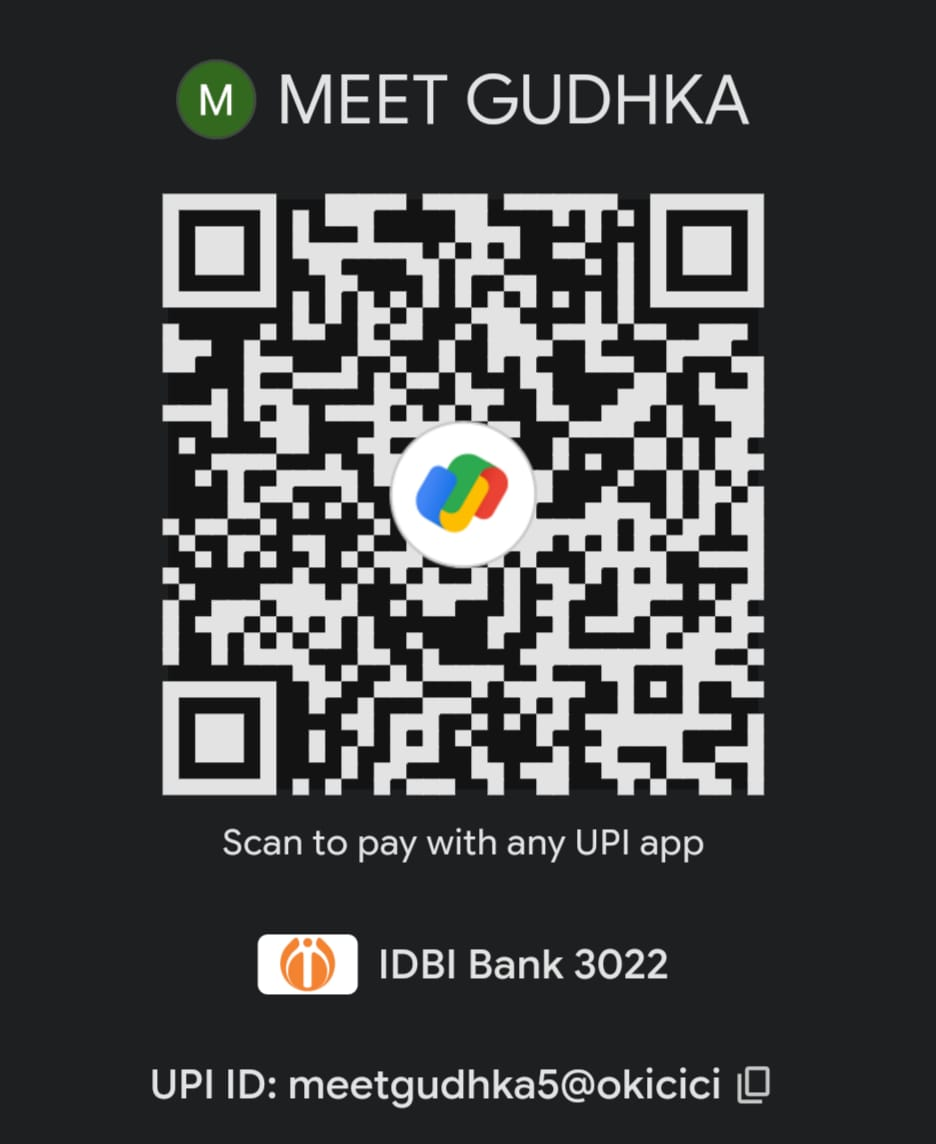
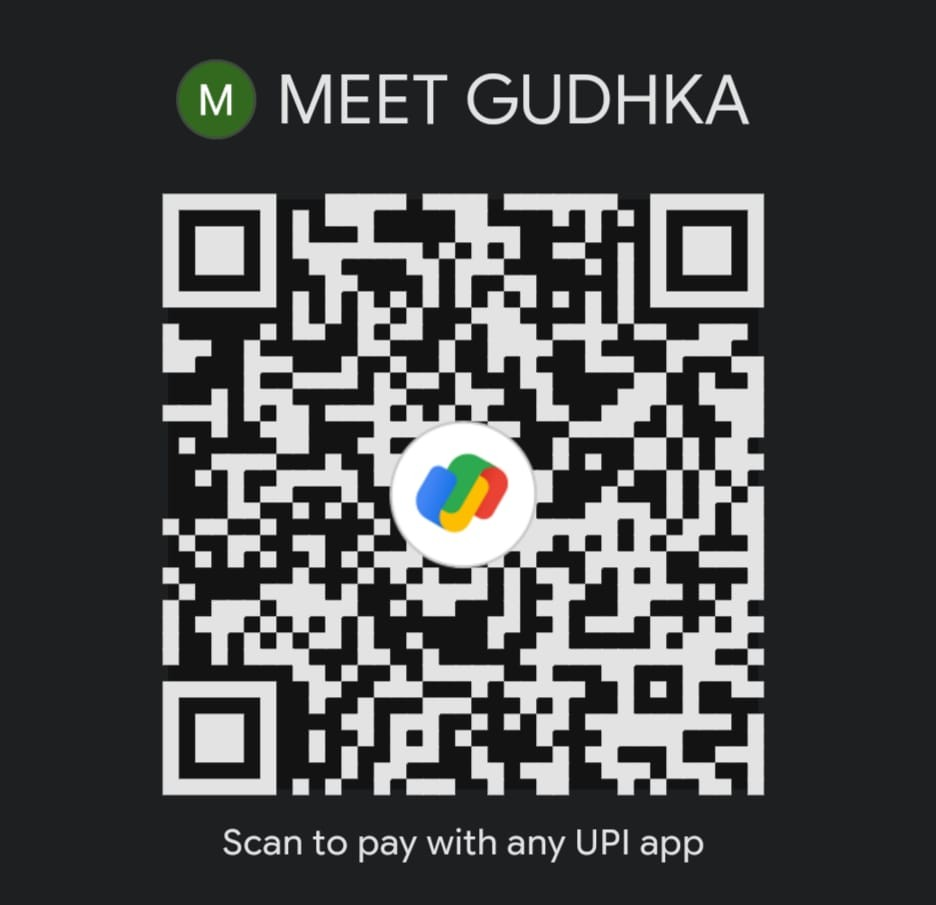
Registration 2nd Updates

diff --git a/tedx/tedxdemo-main/src/RegisterPage.jsx b/tedx/tedxdemo-main/src/RegisterPage.jsx
@@ -22,13 +22,17 @@ const TICKET_OPTIONS = [
   { value: "premium", label: "Premium", amount: 200 },
 ];
 
+const UPI_ID = "meetgudhka5@okicici";
+
 const RegisterPage = () => {
   const [formData, setFormData] = useState(() => {
     const saved = localStorage.getItem('registrationProgress');
     if (saved) {
       try {
         return { ...DEFAULT_FORM_DATA, ...JSON.parse(saved) };
-      } catch (e) {}
+      } catch {
+        localStorage.removeItem('registrationProgress');
+      }
     }
     return DEFAULT_FORM_DATA;
   });
@@ -40,6 +44,8 @@ const RegisterPage = () => {
   const [screenshotPreview, setScreenshotPreview] = useState(null);
   const [isDragging, setIsDragging] = useState(false);
   const [showSample, setShowSample] = useState(false);
+  const [hasExpandedPaymentSection, setHasExpandedPaymentSection] = useState(false);
+  const [isUpiCopied, setIsUpiCopied] = useState(false);
   const fileInputRef = React.useRef(null);
   
   const isPersonalInfoFilled = () => {
@@ -48,6 +54,16 @@ const RegisterPage = () => {
         if (!formData.branch || !formData.sapId || !formData.rollNumber) return false;
     } else if (formData.collegeType === "other") {
         if (!formData.collegeName) return false;
+    }
+    return true;
+  };
+
+  const isPersonalInfoFilledFor = (data) => {
+    if (!data.fullName || !data.email || !data.contact || !data.collegeType) return false;
+    if (data.collegeType === "djsce") {
+      if (!data.branch || !data.sapId || !data.rollNumber) return false;
+    } else if (data.collegeType === "other") {
+      if (!data.collegeName) return false;
     }
     return true;
   };
@@ -109,7 +125,7 @@ const RegisterPage = () => {
     }
 
     try {
-      const response = await fetch('https://script.google.com/macros/s/AKfycbyd5VmAy0HYe05MvR62mccNAWf7_J-iwSabCxAEhmScdnLxc6heKHEWg9bDC4xtbdOIdw/exec', {
+      await fetch('https://script.google.com/macros/s/AKfycbyd5VmAy0HYe05MvR62mccNAWf7_J-iwSabCxAEhmScdnLxc6heKHEWg9bDC4xtbdOIdw/exec', {
         method: 'POST',
         mode: 'no-cors', // Apps Script handles no-cors for simple POSTs
         headers: { 'Content-Type': 'application/json' },
@@ -122,6 +138,7 @@ const RegisterPage = () => {
       setFormData(DEFAULT_FORM_DATA);
       setScreenshotData(null);
       setScreenshotPreview(null);
+      setHasExpandedPaymentSection(false);
       if (fileInputRef.current) fileInputRef.current.value = "";
       localStorage.removeItem('registrationProgress');
     } catch (err) {
@@ -131,7 +148,13 @@ const RegisterPage = () => {
   };
 
   const handleChange = (field, value) => {
-    setFormData((prev) => ({ ...prev, [field]: value }));
+    setFormData((prev) => {
+      const next = { ...prev, [field]: value };
+      if (!hasExpandedPaymentSection && isPersonalInfoFilledFor(next)) {
+        setHasExpandedPaymentSection(true);
+      }
+      return next;
+    });
   };
 
   const handleTicketSelect = (ticketValue) => {
@@ -143,6 +166,30 @@ const RegisterPage = () => {
       amount: String(selectedTicket.amount),
     }));
   };
+
+  const copyUpiId = async () => {
+    try {
+      if (navigator.clipboard && window.isSecureContext) {
+        await navigator.clipboard.writeText(UPI_ID);
+      } else {
+        const textArea = document.createElement("textarea");
+        textArea.value = UPI_ID;
+        textArea.setAttribute("readonly", "");
+        textArea.style.position = "absolute";
+        textArea.style.left = "-9999px";
+        document.body.appendChild(textArea);
+        textArea.select();
+        document.execCommand("copy");
+        document.body.removeChild(textArea);
+      }
+      setIsUpiCopied(true);
+      setTimeout(() => setIsUpiCopied(false), 1800);
+    } catch {
+      alert("Could not copy UPI ID. Please copy it manually.");
+    }
+  };
+
+  const isPaymentSectionVisible = isPersonalInfoFilled();
 
   return (
     <div className="ted-register-container">
@@ -190,6 +237,19 @@ const RegisterPage = () => {
                 Admin Login
               </Link>
             </div>
+
+            {hasExpandedPaymentSection && (
+              <div className="terms-card scale-in">
+                <h3>Terms And Conditions</h3>
+                <ul>
+                  <li>Ticket is confirmed only after successful payment verification.</li>
+                  <li>The selected pass type must match the paid amount exactly.</li>
+                  <li>Payment screenshot must clearly show transaction ID and amount.</li>
+                  <li>Tickets are non-refundable and non-transferable once submitted.</li>
+                  <li>TEDxDJSCE may reject incomplete or incorrect registrations.</li>
+                </ul>
+              </div>
+            )}
           </div>
         </div>
 
@@ -245,7 +305,7 @@ const RegisterPage = () => {
                 { label: "Branch", type: "text", field: "branch" },
                 { label: "Roll Number", type: "text", field: "rollNumber" },
                 { label: "SAP ID", type: "text", field: "sapId" },
-              ].map((field, i) => (
+              ].map((field) => (
                 <div className="field-wrapper scale-in" key={field.field} style={{ "--index": 0 }}>
                   <input
                     type={field.type}
@@ -260,7 +320,7 @@ const RegisterPage = () => {
 
               {formData.collegeType === "other" && [
                 { label: "College Name", type: "text", field: "collegeName" },
-              ].map((field, i) => (
+              ].map((field) => (
                 <div className="field-wrapper scale-in" key={field.field} style={{ "--index": 0 }}>
                   <input
                     type={field.type}
@@ -274,7 +334,7 @@ const RegisterPage = () => {
               ))}
 
               {/* 4. Payment Section (Appears ONLY if forms filled) */}
-              {isPersonalInfoFilled() && (
+                {isPaymentSectionVisible && (
                  <div className="payment-section scale-in">
                      <div className="section-divider">
                          <span>Payment Details</span>
@@ -291,6 +351,20 @@ const RegisterPage = () => {
                           className="payment-qr-image"
                           loading="lazy"
                         />
+                        <div className="upi-copy-row">
+                          <div className="upi-copy-text-wrap">
+                            <span className="upi-copy-label">UPI ID</span>
+                            <span className="upi-copy-id">{UPI_ID}</span>
+                          </div>
+                          <button
+                            type="button"
+                            className={`upi-copy-btn ${isUpiCopied ? "copied" : ""}`}
+                            onClick={copyUpiId}
+                            aria-label="Copy UPI ID"
+                          >
+                            {isUpiCopied ? "Copied" : "Copy"}
+                          </button>
+                        </div>
                      </div>
 
                      <div className="ticket-selector" style={{ "--index": 1 }}>
@@ -326,6 +400,9 @@ const RegisterPage = () => {
                           />
                           <label>{field.label}</label>
                           <div className="underline"></div>
+                          {field.field === "senderName" && (
+                            <p className="field-note">The name of the person, or the account holder's name from whose account the money was sent.</p>
+                          )}
                         </div>
                      ))}
                      
@@ -385,6 +462,7 @@ const RegisterPage = () => {
                      </button>
                  </div>
               )}
+
             </div>
           </div>
         </div>

diff --git a/tedx/tedxdemo-main/src/RegisterPage.css b/tedx/tedxdemo-main/src/RegisterPage.css
@@ -18,7 +18,8 @@
   font-family: var(--font-main);
   overflow: hidden;
   position: relative;
-  padding: 20px;
+  /* Keep form panel below fixed navbar (h-20) */
+  padding: 70px 20px 20px;
 }
 
 .admin-access-container {
@@ -274,7 +275,7 @@
   padding: 60px;
   display: flex;
   flex-direction: column;
-  justify-content: center;
+  justify-content: flex-start;
   background: transparent;
   position: relative;
   overflow: visible;
@@ -570,6 +571,65 @@
   border: 1px solid rgba(255, 255, 255, 0.15);
 }
 
+.upi-copy-row {
+  margin-top: 14px;
+  padding: 10px 12px;
+  border-radius: 10px;
+  border: 1px solid rgba(255, 255, 255, 0.12);
+  background: rgba(255, 255, 255, 0.02);
+  display: flex;
+  align-items: center;
+  justify-content: space-between;
+  gap: 12px;
+}
+
+.upi-copy-text-wrap {
+  min-width: 0;
+  display: flex;
+  flex-direction: column;
+  gap: 2px;
+}
+
+.upi-copy-label {
+  color: rgba(255, 255, 255, 0.55);
+  font-size: 0.72rem;
+  letter-spacing: 1px;
+  text-transform: uppercase;
+}
+
+.upi-copy-id {
+  color: rgba(255, 255, 255, 0.92);
+  font-size: 0.95rem;
+  font-weight: 600;
+  overflow-wrap: anywhere;
+}
+
+.upi-copy-btn {
+  border: 1px solid rgba(255, 255, 255, 0.22);
+  background: rgba(255, 255, 255, 0.04);
+  color: rgba(255, 255, 255, 0.86);
+  border-radius: 8px;
+  padding: 7px 12px;
+  font-size: 0.78rem;
+  letter-spacing: 0.6px;
+  text-transform: uppercase;
+  cursor: pointer;
+  transition: all 0.22s ease;
+  white-space: nowrap;
+}
+
+.upi-copy-btn:hover {
+  border-color: rgba(235, 0, 40, 0.7);
+  color: #fff;
+  background: rgba(235, 0, 40, 0.18);
+}
+
+.upi-copy-btn.copied {
+  border-color: rgba(74, 222, 128, 0.6);
+  color: #b6f4cc;
+  background: rgba(74, 222, 128, 0.12);
+}
+
 .ticket-selector {
   margin-bottom: 26px;
   opacity: 0;
@@ -628,6 +688,35 @@
   color: rgba(255, 255, 255, 0.85);
   font-size: 0.9rem;
   letter-spacing: 0.3px;
+}
+
+.terms-card {
+  margin-top: 24px;
+  padding: 18px;
+  border-radius: 12px;
+  background: rgba(255, 255, 255, 0.03);
+  border: 1px solid rgba(255, 255, 255, 0.1);
+  max-width: 560px;
+}
+
+.terms-card h3 {
+  color: var(--red);
+  font-size: 0.95rem;
+  letter-spacing: 2px;
+  text-transform: uppercase;
+  margin: 0 0 12px;
+}
+
+.terms-card ul {
+  margin: 0;
+  padding-left: 18px;
+  color: rgba(255, 255, 255, 0.78);
+  line-height: 1.55;
+  font-size: 0.88rem;
+}
+
+.terms-card li {
+  margin-bottom: 6px;
 }
 
 /* FORM SECTION - Enhanced */
@@ -783,6 +872,14 @@
 
 .field-wrapper input:focus~.underline {
   width: 100%;
+}
+
+.field-note {
+  margin-top: 10px;
+  color: rgba(255, 255, 255, 0.62);
+  font-size: 0.82rem;
+  line-height: 1.45;
+  letter-spacing: 0.2px;
 }
 
 /* Enhanced Button */
@@ -1204,6 +1301,11 @@
   }
 
   .payment-qr-head {
+    flex-direction: column;
+    align-items: flex-start;
+  }
+
+  .upi-copy-row {
     flex-direction: column;
     align-items: flex-start;
   }
